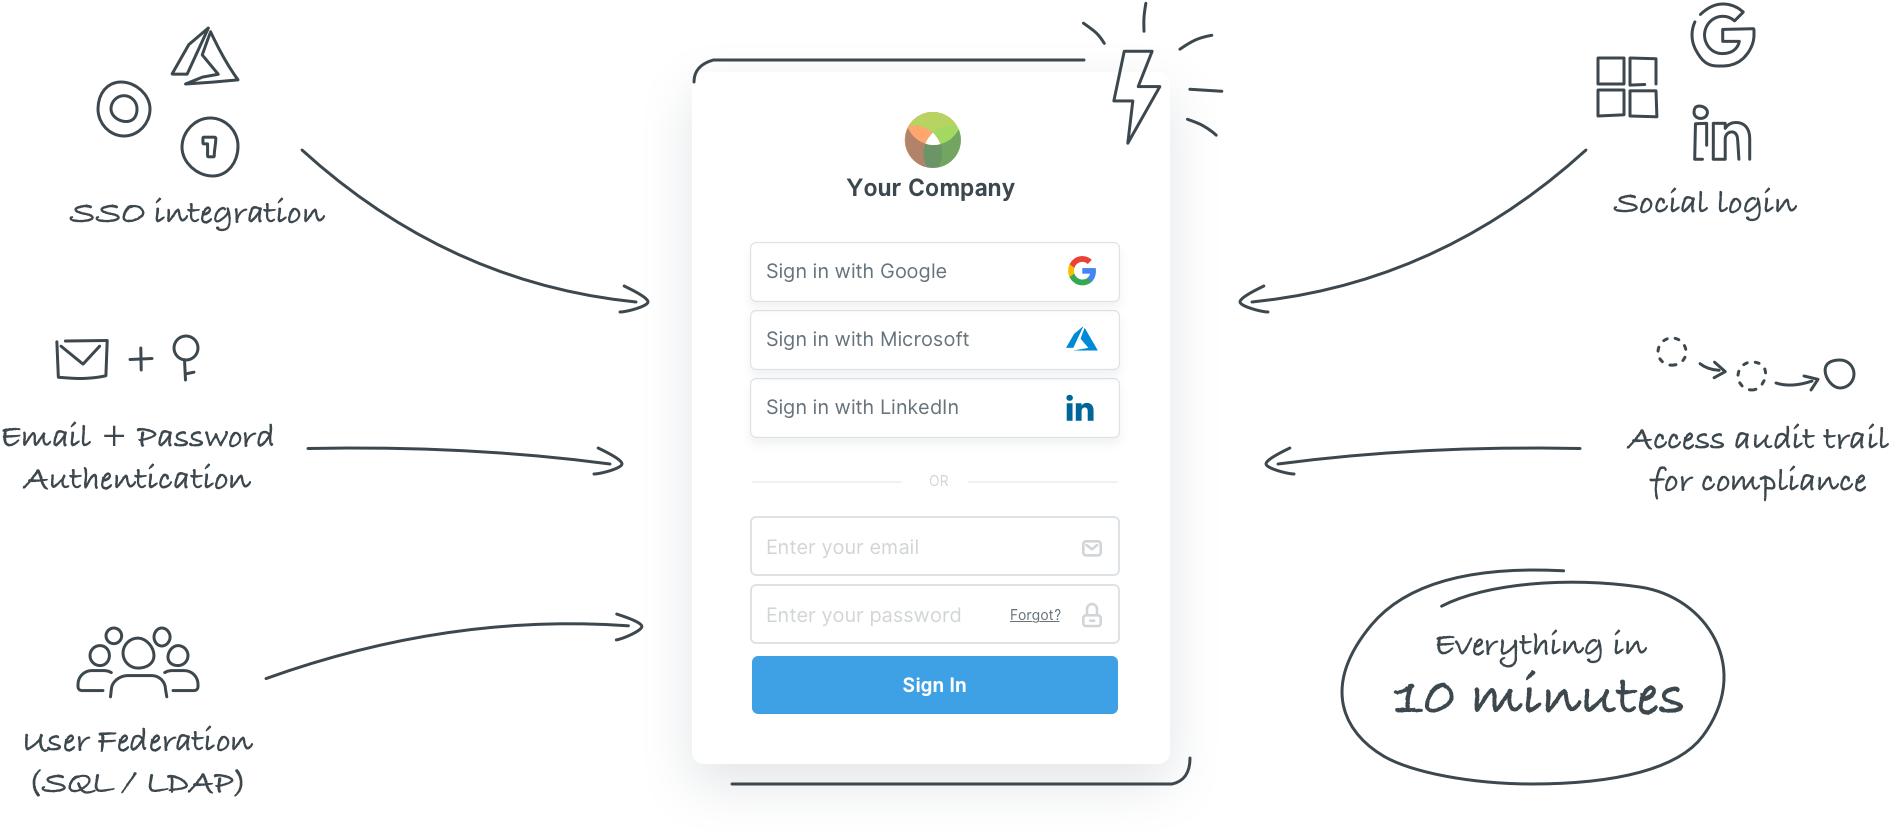
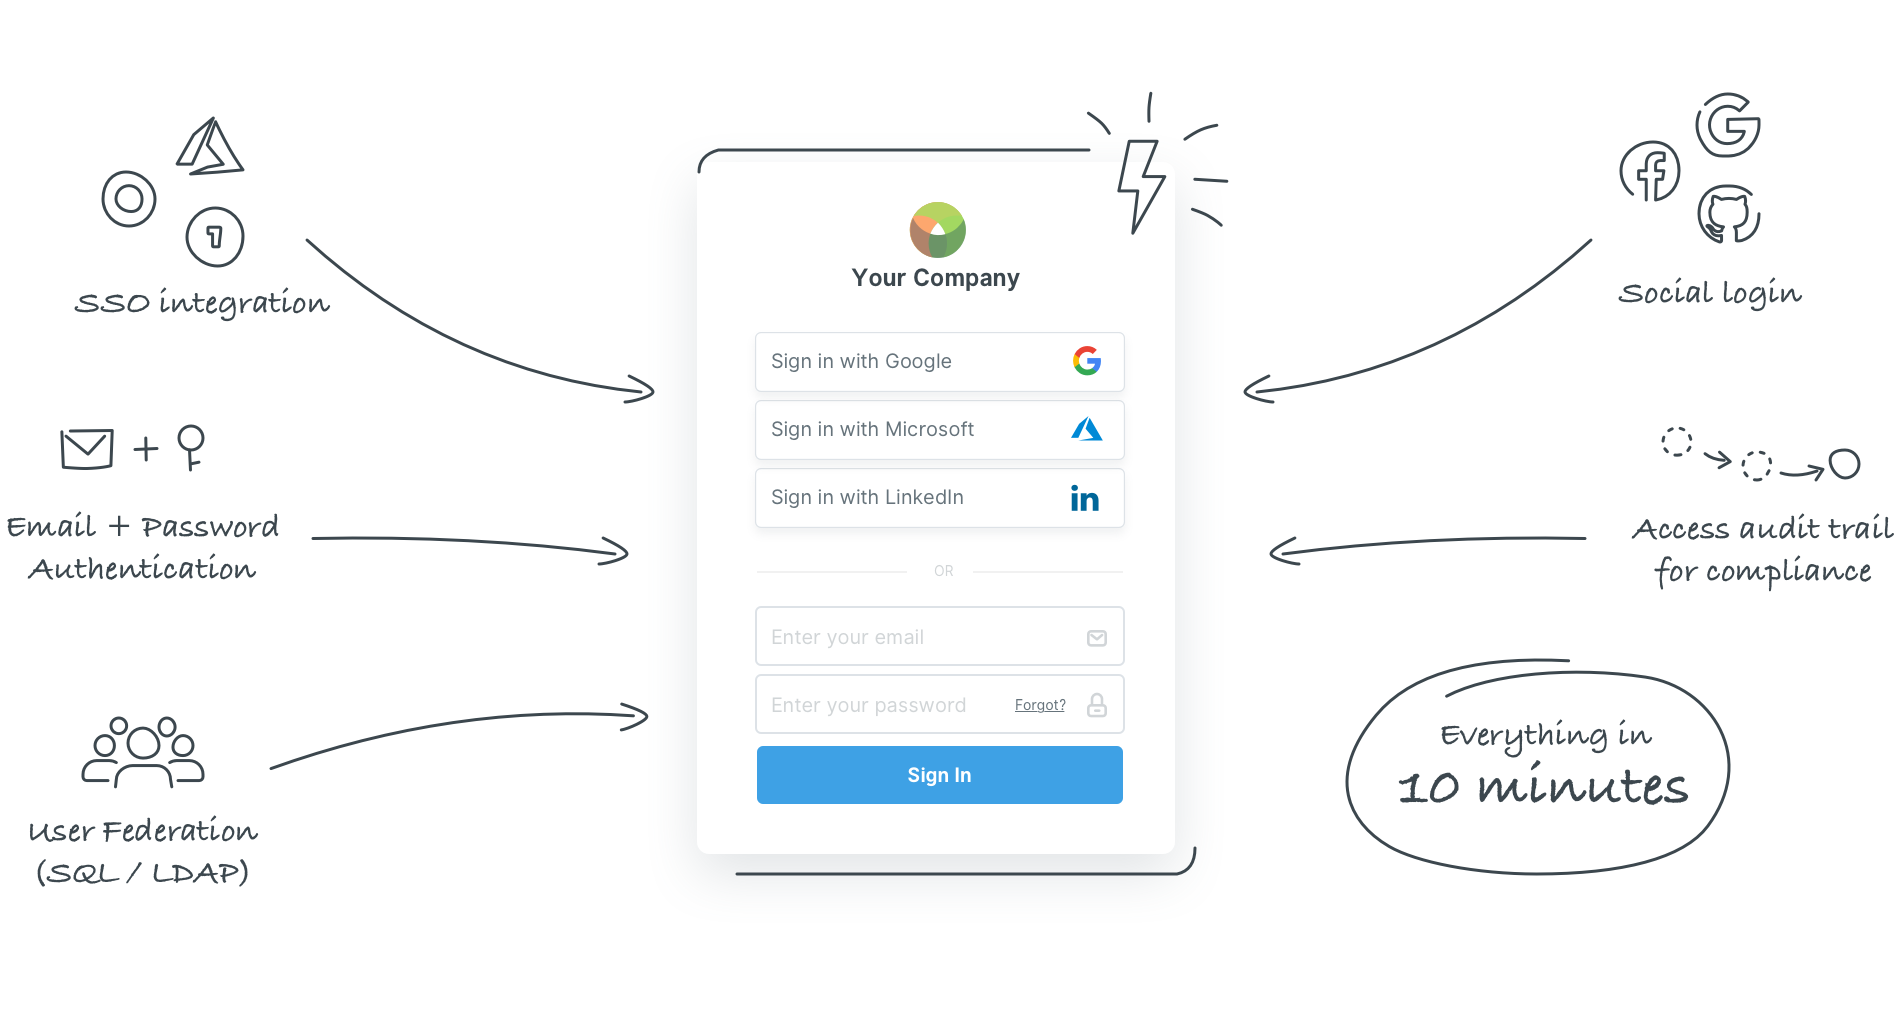
new carousel and account page images

diff --git a/src/pages/carousel.js b/src/pages/carousel.js
@@ -1,0 +1,41 @@
+import React from "react";
+import { Carousel } from "react-responsive-carousel";
+
+const getConfigurableProps = () => ({
+    showArrows: true,
+    showStatus: false,
+    showIndicators: false,
+    infiniteLoop: true,
+    showThumbs: false,
+    useKeyboardArrows: false,
+    autoPlay: true,
+    stopOnHover: true,
+    swipeable: true,
+    dynamicHeight: false,
+    interval: 5000,
+    transitionTime: 350,
+    swipeScrollTolerance: 5,
+});
+
+export default () => (
+    <Carousel {...getConfigurableProps()}>
+        <div>
+            <picture>
+            <source srcSet="../../static/img/hero-mobile.png"
+                    media="(max-width: 767px)"/>
+            <source srcSet="../../static/img/hero.png"
+                    media="(min-width: 768px)"/>
+            <img src="../../static/img/hero.png" alt="Illustration showing login box with callouts explaining features"></img>
+            </picture>
+        </div>
+        <div>
+            <picture>
+            <source srcSet="../../static/img/hero-mobile2.png"
+                    media="(max-width: 767px)"/>
+            <source srcSet="../../static/img/hero2.png"
+                    media="(min-width: 768px)"/>
+            <img src="../../static/img/hero2.png" alt="Illustration showing user management with callouts explaining features"></img>
+            </picture>
+        </div>
+    </Carousel>
+)

diff --git a/src/pages/index.js b/src/pages/index.js
@@ -6,6 +6,9 @@ import useDocusaurusContext from '@docusaurus/useDocusaurusContext';
 import useBaseUrl from '@docusaurus/useBaseUrl';
 import styles from './styles.module.css';
 import ReactTextRotator from 'react-text-rotator';
+import { render } from "react-dom";
+import Carousel from "./carousel";
+import "react-responsive-carousel/lib/styles/carousel.min.css";
 
 const features = [
   {
@@ -155,15 +158,9 @@ function Home() {
             </h1>
             <p className={styles.heroIntro}>Accelerate SaaS time-to-market and enterprise adoption by rapidly integrating the features you need that are not core to your business.</p>
 
-            <div className={styles.heroImage}>
-              <picture>
-                <source srcSet="img/hero-mobile.png"
-                        media="(max-width: 767px)"/>
-                <source srcSet="img/hero.png"
-                        media="(min-width: 768px)"/>
-                <img src="img/hero.png" alt="Illustration showing login box with callout explaining features"></img>
-              </picture>
-            </div>
+      <div className={styles.heroImage}>
+      <Carousel />
+      </div>
 
             <div className={styles.heroCta}>
               <p>Phase Two is currently in private BETA. Please request access in order to receive an early access account.</p>

diff --git a/src/css/custom.css b/src/css/custom.css
@@ -122,6 +122,17 @@
   font-size: .9rem;
 }
 
+/* Carousel */
+.carousel .slide {
+  background-color: transparent !important;
+}
+.carousel.carousel-slider .control-arrow:hover {
+  background-color: transparent !important;
+}
+.carousel.carousel-slider .control-arrow::before {
+  border-right-color: #444 !important;
+  border-left-color: #444 !important;
+}
 
 @media (min-width: 768px) {
   .footer,

diff --git a/src/theme/Navbar/index.js b/src/theme/Navbar/index.js
@@ -33,7 +33,7 @@ function NavLink({activeBasePath, to, href, label, position, ...props}) {
             href,
           }
         : {
-            activeClassName: 'navbar__link--active',
+            activeclassname: 'navbar__link--active',
             to: toUrl,
             ...(activeBasePath
               ? {

diff --git a/theme/Navbar/index.js b/theme/Navbar/index.js
@@ -55,7 +55,7 @@ function NavLink({activeBasePath, to, href, label, position, ...props}) {
             href,
           }
         : {
-            activeClassName: 'navbar__link--active',
+            activeclassname: 'navbar__link--active',
             to: toUrl,
             ...(activeBasePath
               ? {
